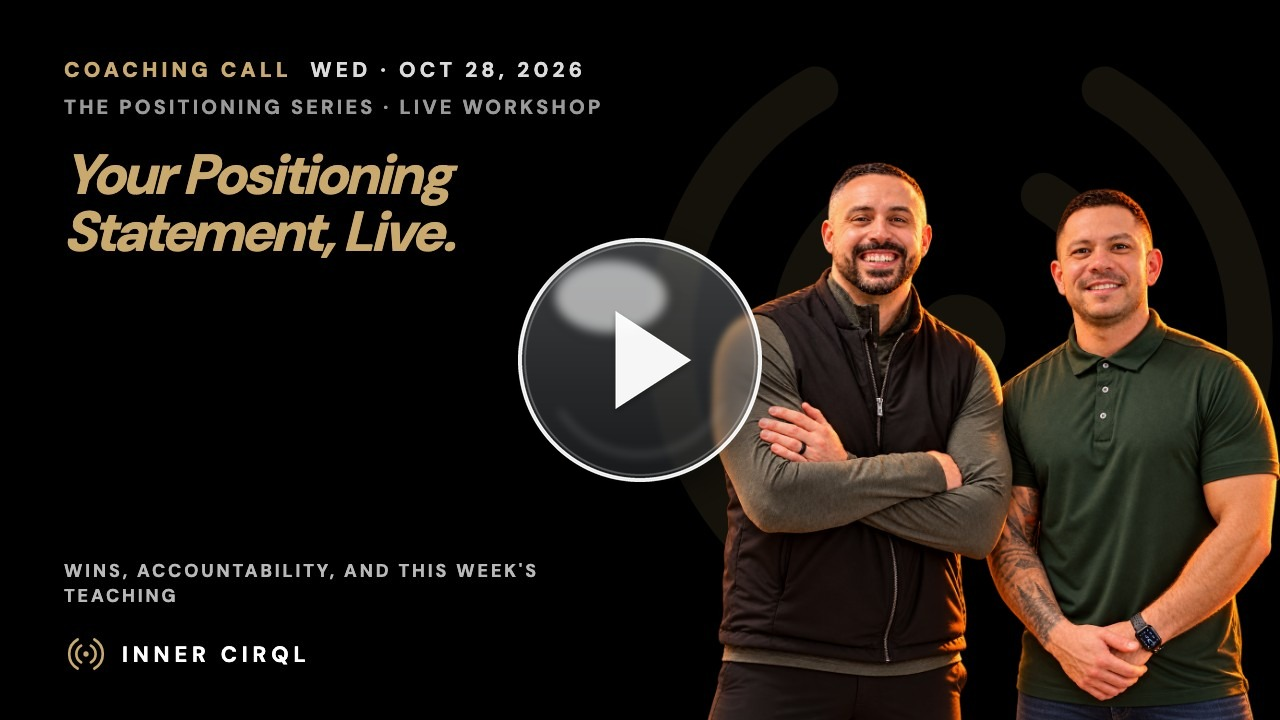
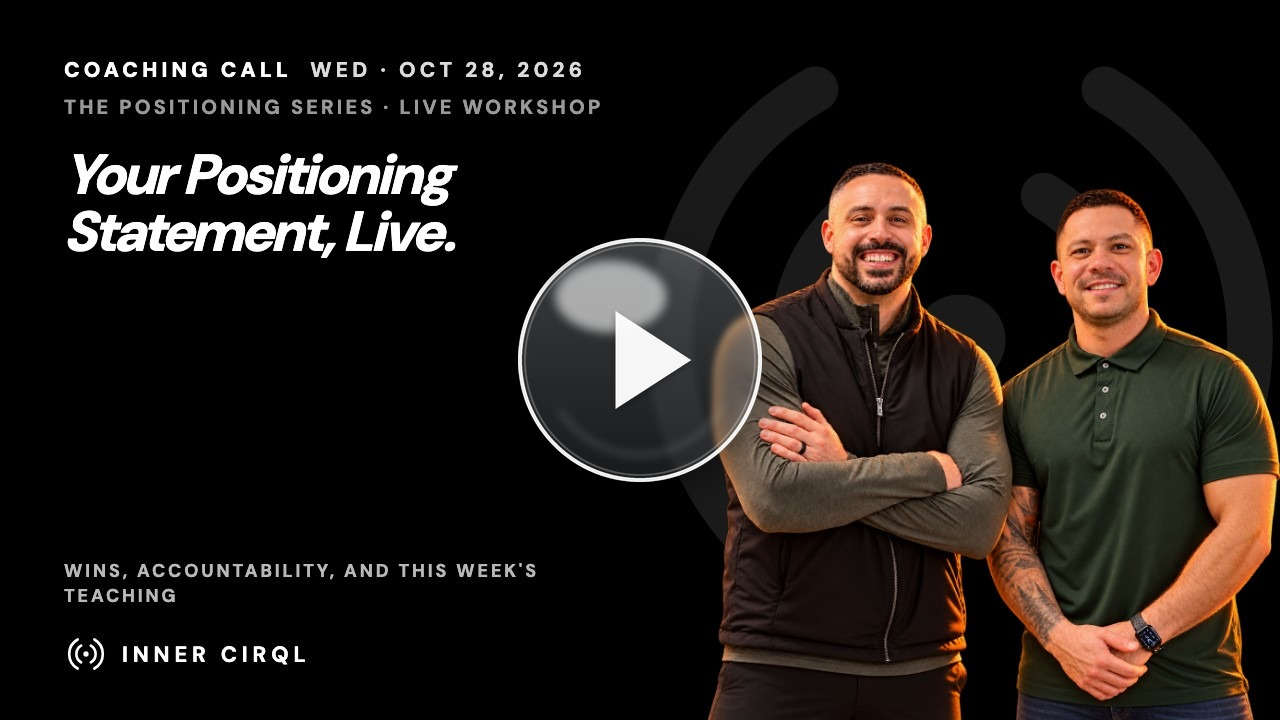
Training: retitle Oct 28 coaching call (The Positioning Series · Building Your Positioning Statement Live) + thumbnail

Changed region(s): [[0.0312, 0.2139, 0.375, 0.3667], [0.0312, 0.0917, 0.2188, 0.1222], [0.0312, 0.8861, 0.0938, 0.9167]]

diff --git a/training/index.html b/training/index.html
@@ -94,6 +94,26 @@ window.LIBRARY = {
   ],
   "items": [
     {
+      "id": "v-2026-10-28",
+      "date": "2026-10-28",
+      "dateLabel": "October 28, 2026",
+      "series": "positioning",
+      "week": 4,
+      "name": "Building Your Positioning Statement Live",
+      "title": "The Positioning Series · Building Your Positioning Statement Live",
+      "headline": [
+        "Your Positioning",
+        "Statement, Live."
+      ],
+      "sub": "The Positioning Series · Live Workshop",
+      "desc": "The Positioning Series: Building Your Positioning Statement Live. Wins, accountability, and the teaching segment, edited replay.",
+      "href": "https://coach.theinnercirql.com/2026-10-28/",
+      "pdf": null,
+      "slides": null,
+      "embed": "https://www.youtube.com/embed/TAK0x6sg4_Q?rel=0&modestbranding=1",
+      "thumb": "/assets/thumbs/oct-28-call.jpg?v=29920173"
+    },
+    {
       "id": "v-2026-10-14",
       "date": "2026-10-14",
       "dateLabel": "October 14, 2026",
@@ -532,26 +552,6 @@ window.LIBRARY = {
       "slides": null,
       "embed": "https://www.youtube.com/embed/wwkpkQBc8ps?rel=0&modestbranding=1",
       "thumb": "/assets/thumbs/nov-11-call.jpg?v=29920154"
-    },
-    {
-      "id": "v-2026-10-28",
-      "date": "2026-10-28",
-      "dateLabel": "October 28, 2026",
-      "series": "positioning",
-      "week": 4,
-      "name": "Building Your Positioning Statement Live",
-      "title": "The Positioning Series · Building Your Positioning Statement Live",
-      "headline": [
-        "Your Positioning",
-        "Statement, Live."
-      ],
-      "sub": "The Positioning Series · Live Workshop",
-      "desc": "The Positioning Series: Building Your Positioning Statement Live. Wins, accountability, and the teaching segment, edited replay.",
-      "href": "https://coach.theinnercirql.com/2026-10-28/",
-      "pdf": null,
-      "slides": null,
-      "embed": "https://www.youtube.com/embed/TAK0x6sg4_Q?rel=0&modestbranding=1",
-      "thumb": "/assets/thumbs/oct-28-call.jpg?v=29920153"
     },
     {
       "id": "t-become-a-listing-magnet",
